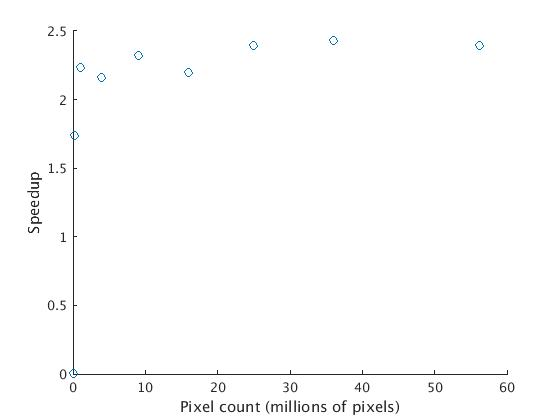
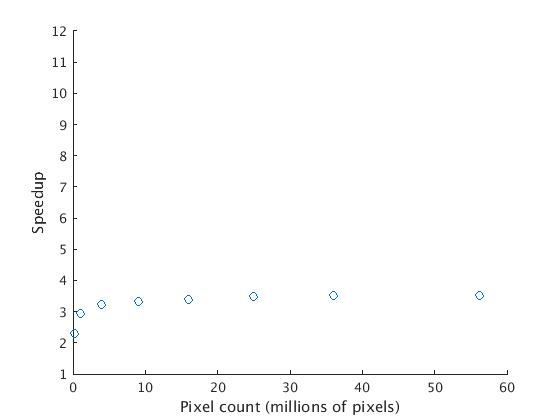
Update speedup graphs + MATLAB script for plots

diff --git a/documents/paper/speedup_graphs.m b/documents/paper/speedup_graphs.m
@@ -1,0 +1,17 @@
+pixel_count = [100^2, 500^2, 1000^2, 2000^2, 3000^2, 4000^2, 5000^2, 6000^2, 7500^2]./10^6;
+separable_convolution_speedup = [0.001521 2.306766 2.932381 3.238829 3.319243 3.375912 3.480884 3.503627 3.509777];
+edge_classification_speedup = [97.544669 10.350657 9.318748 7.847971 6.959467 6.129282 5.709230 5.230187, -1];
+motion_area_estimation_speedup = [5.084746 7.820414 8.895548 8.923449 9.547545 9.456960 8.677697 8.805193 4.264629];
+
+figure, scatter(pixel_count, separable_convolution_speedup);
+xlabel('Pixel count (millions of pixels)');
+ylabel('Speedup');
+ylim([1, 12]);
+figure, scatter(pixel_count, edge_classification_speedup);
+xlabel('Pixel count (millions of pixels)');
+ylabel('Speedup');
+ylim([1, 12]);
+figure, scatter(pixel_count, motion_area_estimation_speedup);
+xlabel('Pixel count (millions of pixels)');
+ylabel('Speedup');
+ylim([1, 12]);
